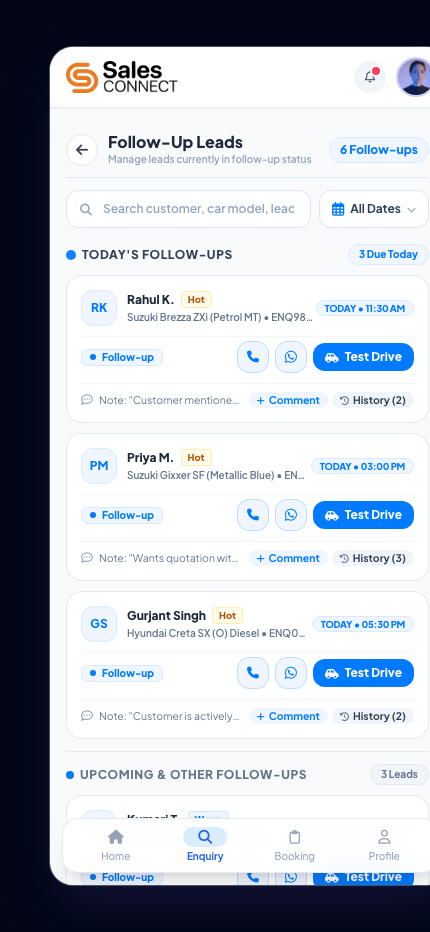
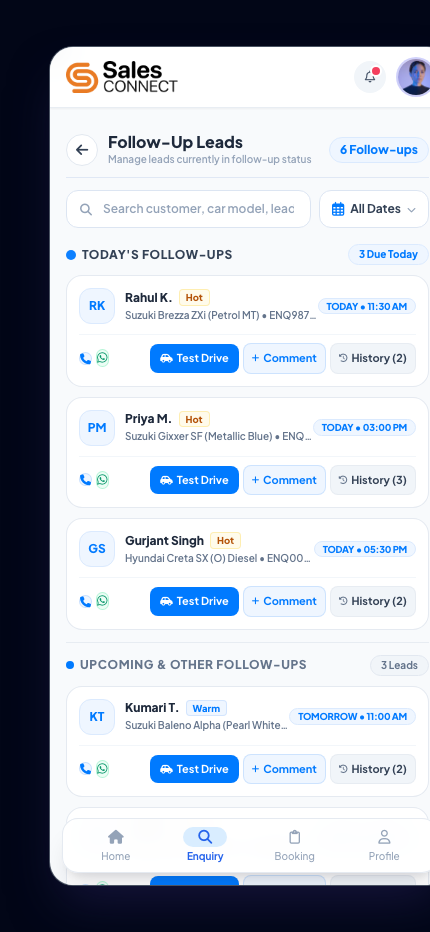
Unify action bar: remove follow-up pill and note snippet, place test drive with comment and history CTAs

diff --git a/index.html b/index.html
@@ -6455,18 +6455,11 @@
     // Generates individual follow-up lead card HTML: clean, compact, breathable
     function renderFollowUpCardHTML(lead) {
       const isHot = lead.priority === 'Hot';
-      let latestSnippet = 'No recent activity logged';
-      if (lead.comments && lead.comments.length > 0) {
-        latestSnippet = `Note: "${lead.comments[0].text}"`;
-      } else if (lead.history && lead.history.length > 0) {
-        latestSnippet = `${lead.history[0].title}: ${lead.history[0].desc}`;
-      }
-
       const commentCount = lead.comments ? lead.comments.length : 0;
       const historyCount = lead.history ? lead.history.length : 0;
 
       return `
-        <div id="followup-card-${lead.id}" class="act-lead-card ${lead.isToday ? 'today' : 'upcoming'} all bg-white p-3.5 rounded-2xl border border-slate-200/90 shadow-xs space-y-2.5 transition-all hover:border-blue-200">
+        <div id="followup-card-${lead.id}" class="act-lead-card ${lead.isToday ? 'today' : 'upcoming'} all bg-white p-3 rounded-2xl border border-slate-200/90 shadow-xs space-y-2.5 transition-all hover:border-blue-200">
           <!-- Card Header & Customer Info -->
           <div class="flex items-center justify-between cursor-pointer" onclick="openEnquiryDetails('${lead.name}', '${lead.id}')">
             <div class="flex items-center gap-2.5 min-w-0">
@@ -6484,40 +6477,30 @@
             <span class="text-[9.5px] font-extrabold text-[#007AFF] bg-blue-50 px-2 py-0.8 rounded-full shrink-0 border border-blue-100 uppercase tracking-tight">${lead.dueText}</span>
           </div>
 
-          <!-- Status & Primary Actions Row -->
-          <div class="flex items-center justify-between pt-1 border-t border-slate-100/80">
-            <span class="text-[10px] font-black text-[#007AFF] bg-blue-50 px-2 py-0.8 rounded-md border border-blue-100 flex items-center gap-1.5">
-              <span class="w-1.5 h-1.5 rounded-full bg-[#007AFF]"></span>
-              Follow-up
-            </span>
-            <div class="flex items-center gap-1.5">
-              <button onclick="event.stopPropagation(); triggerLeadCall('${lead.id}', '${lead.phone}');" title="Call" class="w-8 h-8 rounded-xl bg-blue-50 text-[#007AFF] border border-blue-200 flex items-center justify-center active:scale-90 cursor-pointer transition-transform">
-                <i class="fa-solid fa-phone text-xs"></i>
+          <!-- Actions Row: Call, WhatsApp + Test Drive, Add Comment, History -->
+          <div class="flex items-center justify-between pt-2 border-t border-slate-100/90 gap-1">
+            <!-- Left: Call & WhatsApp Quick Comms -->
+            <div class="flex items-center gap-1 shrink-0">
+              <button onclick="event.stopPropagation(); triggerLeadCall('${lead.id}', '${lead.phone}');" title="Call" class="w-7.5 h-7.5 rounded-lg bg-blue-50 hover:bg-blue-100 text-[#007AFF] border border-blue-200/80 flex items-center justify-center active:scale-90 cursor-pointer transition-transform">
+                <i class="fa-solid fa-phone text-[11px]"></i>
               </button>
-              <button onclick="event.stopPropagation(); triggerLeadWhatsApp('${lead.id}', '${lead.phone}');" title="WhatsApp" class="w-8 h-8 rounded-xl bg-blue-50 text-[#007AFF] border border-blue-200 flex items-center justify-center active:scale-90 cursor-pointer transition-transform">
-                <i class="fa-brands fa-whatsapp text-sm"></i>
+              <button onclick="event.stopPropagation(); triggerLeadWhatsApp('${lead.id}', '${lead.phone}');" title="WhatsApp" class="w-7.5 h-7.5 rounded-lg bg-emerald-50 hover:bg-emerald-100 text-emerald-600 border border-emerald-200/80 flex items-center justify-center active:scale-90 cursor-pointer transition-transform">
+                <i class="fa-brands fa-whatsapp text-xs"></i>
               </button>
-              <!-- Test Drive CTA Button -->
-              <button onclick="event.stopPropagation(); openTestDriveBookingModal('${lead.id}');" class="px-3 py-1.5 bg-[#007AFF] hover:bg-blue-600 active:bg-blue-700 text-white rounded-xl text-xs font-black flex items-center gap-1.5 shadow-xs active:scale-95 transition-all cursor-pointer">
-                <i class="fa-solid fa-car-side text-[11px]"></i>
+            </div>
+
+            <!-- Right: Test Drive CTA with Add Comment & History Button -->
+            <div class="flex items-center gap-1 shrink-0">
+              <button onclick="event.stopPropagation(); openTestDriveBookingModal('${lead.id}');" class="px-2.5 py-1.5 bg-[#007AFF] hover:bg-blue-600 active:bg-blue-700 text-white rounded-lg text-[11px] font-bold flex items-center gap-1 shadow-2xs active:scale-95 transition-all cursor-pointer">
+                <i class="fa-solid fa-car-side text-[10px]"></i>
                 <span>Test Drive</span>
               </button>
-            </div>
-          </div>
-
-          <!-- Clean Footer: Latest Activity Snippet & Action History / Remarks Trigger -->
-          <div class="flex items-center justify-between pt-2 border-t border-slate-100 text-xs">
-            <div onclick="openLeadCommentsModal('${lead.id}');" class="flex items-center gap-1.5 min-w-0 pr-2 text-slate-500 cursor-pointer group hover:text-[#007AFF] transition-colors" title="View comments">
-              <i class="fa-regular fa-comment-dots text-slate-400 text-xs shrink-0 group-hover:text-[#007AFF] transition-colors"></i>
-              <span id="leadSnippet-${lead.id}" class="text-[10.5px] truncate">${latestSnippet}</span>
-            </div>
-            <div class="flex items-center gap-1 shrink-0">
-              <button type="button" onclick="event.stopPropagation(); openLeadCommentsModal('${lead.id}');" class="px-2 py-0.8 bg-blue-50 hover:bg-blue-100 text-[#007AFF] rounded-lg text-[10.5px] font-bold flex items-center gap-1 transition-colors cursor-pointer active:scale-95" title="View & add comments">
-                <i class="fa-solid fa-plus text-[9px]"></i>
+              <button type="button" onclick="event.stopPropagation(); openLeadCommentsModal('${lead.id}');" class="px-2 py-1.5 bg-blue-50 hover:bg-blue-100 text-[#007AFF] border border-blue-200/70 rounded-lg text-[11px] font-bold flex items-center gap-1 transition-colors cursor-pointer active:scale-95" title="Add or view comments">
+                <i class="fa-solid fa-plus text-[8.5px]"></i>
                 <span>Comment</span>
               </button>
-              <button type="button" onclick="event.stopPropagation(); openLeadHistoryModal('${lead.id}');" class="px-2 py-0.8 bg-slate-100 hover:bg-slate-200 text-slate-700 rounded-lg text-[10.5px] font-bold flex items-center gap-1 transition-colors cursor-pointer active:scale-95" title="View chronological action history">
-                <i class="fa-solid fa-clock-rotate-left text-slate-500 text-[9px]"></i>
+              <button type="button" onclick="event.stopPropagation(); openLeadHistoryModal('${lead.id}');" class="px-2 py-1.5 bg-slate-100 hover:bg-slate-200 text-slate-700 border border-slate-200/70 rounded-lg text-[11px] font-bold flex items-center gap-1 transition-colors cursor-pointer active:scale-95" title="View chronological action history">
+                <i class="fa-solid fa-clock-rotate-left text-slate-500 text-[8.5px]"></i>
                 <span>History (<span id="historyCount-${lead.id}">${historyCount}</span>)</span>
               </button>
             </div>

diff --git a/sales_connect_redesign.html b/sales_connect_redesign.html
@@ -6455,18 +6455,11 @@
     // Generates individual follow-up lead card HTML: clean, compact, breathable
     function renderFollowUpCardHTML(lead) {
       const isHot = lead.priority === 'Hot';
-      let latestSnippet = 'No recent activity logged';
-      if (lead.comments && lead.comments.length > 0) {
-        latestSnippet = `Note: "${lead.comments[0].text}"`;
-      } else if (lead.history && lead.history.length > 0) {
-        latestSnippet = `${lead.history[0].title}: ${lead.history[0].desc}`;
-      }
-
       const commentCount = lead.comments ? lead.comments.length : 0;
       const historyCount = lead.history ? lead.history.length : 0;
 
       return `
-        <div id="followup-card-${lead.id}" class="act-lead-card ${lead.isToday ? 'today' : 'upcoming'} all bg-white p-3.5 rounded-2xl border border-slate-200/90 shadow-xs space-y-2.5 transition-all hover:border-blue-200">
+        <div id="followup-card-${lead.id}" class="act-lead-card ${lead.isToday ? 'today' : 'upcoming'} all bg-white p-3 rounded-2xl border border-slate-200/90 shadow-xs space-y-2.5 transition-all hover:border-blue-200">
           <!-- Card Header & Customer Info -->
           <div class="flex items-center justify-between cursor-pointer" onclick="openEnquiryDetails('${lead.name}', '${lead.id}')">
             <div class="flex items-center gap-2.5 min-w-0">
@@ -6484,40 +6477,30 @@
             <span class="text-[9.5px] font-extrabold text-[#007AFF] bg-blue-50 px-2 py-0.8 rounded-full shrink-0 border border-blue-100 uppercase tracking-tight">${lead.dueText}</span>
           </div>
 
-          <!-- Status & Primary Actions Row -->
-          <div class="flex items-center justify-between pt-1 border-t border-slate-100/80">
-            <span class="text-[10px] font-black text-[#007AFF] bg-blue-50 px-2 py-0.8 rounded-md border border-blue-100 flex items-center gap-1.5">
-              <span class="w-1.5 h-1.5 rounded-full bg-[#007AFF]"></span>
-              Follow-up
-            </span>
-            <div class="flex items-center gap-1.5">
-              <button onclick="event.stopPropagation(); triggerLeadCall('${lead.id}', '${lead.phone}');" title="Call" class="w-8 h-8 rounded-xl bg-blue-50 text-[#007AFF] border border-blue-200 flex items-center justify-center active:scale-90 cursor-pointer transition-transform">
-                <i class="fa-solid fa-phone text-xs"></i>
+          <!-- Actions Row: Call, WhatsApp + Test Drive, Add Comment, History -->
+          <div class="flex items-center justify-between pt-2 border-t border-slate-100/90 gap-1">
+            <!-- Left: Call & WhatsApp Quick Comms -->
+            <div class="flex items-center gap-1 shrink-0">
+              <button onclick="event.stopPropagation(); triggerLeadCall('${lead.id}', '${lead.phone}');" title="Call" class="w-7.5 h-7.5 rounded-lg bg-blue-50 hover:bg-blue-100 text-[#007AFF] border border-blue-200/80 flex items-center justify-center active:scale-90 cursor-pointer transition-transform">
+                <i class="fa-solid fa-phone text-[11px]"></i>
               </button>
-              <button onclick="event.stopPropagation(); triggerLeadWhatsApp('${lead.id}', '${lead.phone}');" title="WhatsApp" class="w-8 h-8 rounded-xl bg-blue-50 text-[#007AFF] border border-blue-200 flex items-center justify-center active:scale-90 cursor-pointer transition-transform">
-                <i class="fa-brands fa-whatsapp text-sm"></i>
+              <button onclick="event.stopPropagation(); triggerLeadWhatsApp('${lead.id}', '${lead.phone}');" title="WhatsApp" class="w-7.5 h-7.5 rounded-lg bg-emerald-50 hover:bg-emerald-100 text-emerald-600 border border-emerald-200/80 flex items-center justify-center active:scale-90 cursor-pointer transition-transform">
+                <i class="fa-brands fa-whatsapp text-xs"></i>
               </button>
-              <!-- Test Drive CTA Button -->
-              <button onclick="event.stopPropagation(); openTestDriveBookingModal('${lead.id}');" class="px-3 py-1.5 bg-[#007AFF] hover:bg-blue-600 active:bg-blue-700 text-white rounded-xl text-xs font-black flex items-center gap-1.5 shadow-xs active:scale-95 transition-all cursor-pointer">
-                <i class="fa-solid fa-car-side text-[11px]"></i>
+            </div>
+
+            <!-- Right: Test Drive CTA with Add Comment & History Button -->
+            <div class="flex items-center gap-1 shrink-0">
+              <button onclick="event.stopPropagation(); openTestDriveBookingModal('${lead.id}');" class="px-2.5 py-1.5 bg-[#007AFF] hover:bg-blue-600 active:bg-blue-700 text-white rounded-lg text-[11px] font-bold flex items-center gap-1 shadow-2xs active:scale-95 transition-all cursor-pointer">
+                <i class="fa-solid fa-car-side text-[10px]"></i>
                 <span>Test Drive</span>
               </button>
-            </div>
-          </div>
-
-          <!-- Clean Footer: Latest Activity Snippet & Action History / Remarks Trigger -->
-          <div class="flex items-center justify-between pt-2 border-t border-slate-100 text-xs">
-            <div onclick="openLeadCommentsModal('${lead.id}');" class="flex items-center gap-1.5 min-w-0 pr-2 text-slate-500 cursor-pointer group hover:text-[#007AFF] transition-colors" title="View comments">
-              <i class="fa-regular fa-comment-dots text-slate-400 text-xs shrink-0 group-hover:text-[#007AFF] transition-colors"></i>
-              <span id="leadSnippet-${lead.id}" class="text-[10.5px] truncate">${latestSnippet}</span>
-            </div>
-            <div class="flex items-center gap-1 shrink-0">
-              <button type="button" onclick="event.stopPropagation(); openLeadCommentsModal('${lead.id}');" class="px-2 py-0.8 bg-blue-50 hover:bg-blue-100 text-[#007AFF] rounded-lg text-[10.5px] font-bold flex items-center gap-1 transition-colors cursor-pointer active:scale-95" title="View & add comments">
-                <i class="fa-solid fa-plus text-[9px]"></i>
+              <button type="button" onclick="event.stopPropagation(); openLeadCommentsModal('${lead.id}');" class="px-2 py-1.5 bg-blue-50 hover:bg-blue-100 text-[#007AFF] border border-blue-200/70 rounded-lg text-[11px] font-bold flex items-center gap-1 transition-colors cursor-pointer active:scale-95" title="Add or view comments">
+                <i class="fa-solid fa-plus text-[8.5px]"></i>
                 <span>Comment</span>
               </button>
-              <button type="button" onclick="event.stopPropagation(); openLeadHistoryModal('${lead.id}');" class="px-2 py-0.8 bg-slate-100 hover:bg-slate-200 text-slate-700 rounded-lg text-[10.5px] font-bold flex items-center gap-1 transition-colors cursor-pointer active:scale-95" title="View chronological action history">
-                <i class="fa-solid fa-clock-rotate-left text-slate-500 text-[9px]"></i>
+              <button type="button" onclick="event.stopPropagation(); openLeadHistoryModal('${lead.id}');" class="px-2 py-1.5 bg-slate-100 hover:bg-slate-200 text-slate-700 border border-slate-200/70 rounded-lg text-[11px] font-bold flex items-center gap-1 transition-colors cursor-pointer active:scale-95" title="View chronological action history">
+                <i class="fa-solid fa-clock-rotate-left text-slate-500 text-[8.5px]"></i>
                 <span>History (<span id="historyCount-${lead.id}">${historyCount}</span>)</span>
               </button>
             </div>

diff --git a/walkthrough.md b/walkthrough.md
@@ -1,10 +1,33 @@
 # Walkthrough - Sales Connect Mobile Redesign
 
-## 💬 Clean Separation: "+ Comment" (Comments Only) vs. "History" (Action History Only)
+## 🎯 Unified Action Bar & Minimalist Follow-up Card Face
+
+Streamlined follow-up lead cards based on user requirements:
+1. **Removed Redundant Elements**:
+   - Removed the `• Follow-up` status pill (every lead on this screen is already strictly in follow-up status).
+   - Removed the truncated `💬 Note: "Customer mentione..."` snippet row.
+2. **Unified Action Bar**:
+   - Brought the primary **`Test Drive`** CTA together with **`+ Comment`** and **`History (<count>)`** buttons into a single horizontal action row.
+   - Quick communication icons (`[ 📞 ]` Call and `[ 💬 ]` WhatsApp) sit on the left, while stage & management CTAs (`[ 🚗 Test Drive ]`, `[ + Comment ]`, `[ 🕒 History ]`) sit on the right.
+3. **Ultra-Compact Height (~95px)**:
+   - Eliminates card density and clutter, allowing sales executives to review 4+ leads on screen simultaneously without vertical crowding.
+
+---
+
+### 📸 Visual Evidence (Unified Action Bar & Clean Feed)
+
+| 1. Clean Follow-up Feed | 2. Dedicated "+ Comment" Modal | 3. Dedicated "History" Modal |
+| :---: | :---: | :---: |
+| ![Clean Follow-up Feed](file:///Users/komalpreet/.gemini/antigravity/brain/841d8135-5e2d-494d-8f72-ecf6fb143304/screenshot_followup_clean_feed.png) | ![Lead Comments Separated Modal](file:///Users/komalpreet/.gemini/antigravity/brain/841d8135-5e2d-494d-8f72-ecf6fb143304/screenshot_lead_comments_separated.png) | ![Lead Action History Separated Modal](file:///Users/komalpreet/.gemini/antigravity/brain/841d8135-5e2d-494d-8f72-ecf6fb143304/screenshot_lead_history_separated.png) |
+| *Unified 1-row action bar: Call, WhatsApp + Test Drive, Comment, History (No status pill, no snippet).* | *Standalone Comments modal with post input & past notes only (no tab switcher).* | *Standalone Action History modal with chronological audit trail only (no tab switcher).* |
+
+---
+
+## 💬 Dedicated "+ Comment" (Comments Only) vs. "History" (Action History Only)
 
 Decoupled the Comments and Action History interfaces into two completely separate, independent bottom-sheet modals with zero tab-switching clutter:
 
-1. **Comment CTA (`+ Comment` / Note Snippet)**:
+1. **Comment CTA (`+ Comment`)**:
    - Triggers the dedicated **Lead Comments & Notes** modal (`#leadCommentsModal`).
    - Contains **ONLY**:
      - Customer summary card (Avatar, Name, Phone, Car Model, Follow-up badge).
@@ -20,20 +43,6 @@ Decoupled the Comments and Action History interfaces into two completely separat
      - Chronological action timeline detailing all customer interactions (Outgoing calls, WhatsApp chats, Test drives scheduled, Lead creation).
      - Colored icon badges for each action type with executive attribution and `Action Logged ✓` audit stamp.
    - **NO tab switcher bar**, **NO comment input field** (pure audit trail).
-
-3. **Decluttered Follow-up Card Face**:
-   - Compact ~125px card height.
-   - Left side: 1-line latest comment snippet with click-to-open comments.
-   - Right side: distinct `+ Comment` pill button and `History (<count>)` pill button.
-
----
-
-### 📸 Visual Evidence (Completely Independent Modals)
-
-| 1. "+ Comment" CTA Clicked | 2. "History" CTA Clicked | 3. Clean Follow-up Cards Feed |
-| :---: | :---: | :---: |
-| ![Lead Comments Separated Modal](file:///Users/komalpreet/.gemini/antigravity/brain/841d8135-5e2d-494d-8f72-ecf6fb143304/screenshot_lead_comments_separated.png) | ![Lead Action History Separated Modal](file:///Users/komalpreet/.gemini/antigravity/brain/841d8135-5e2d-494d-8f72-ecf6fb143304/screenshot_lead_history_separated.png) | ![Clean Follow-up Feed](file:///Users/komalpreet/.gemini/antigravity/brain/841d8135-5e2d-494d-8f72-ecf6fb143304/screenshot_followup_clean_feed.png) |
-| *Dedicated comments modal with post input & past comments only (No tab bar).* | *Dedicated action audit trail with calls & events only (No tab bar, No comment input).* | *Clear card footer with `+ Comment` CTA and `History (2)` CTA.* |
 
 ---
 
